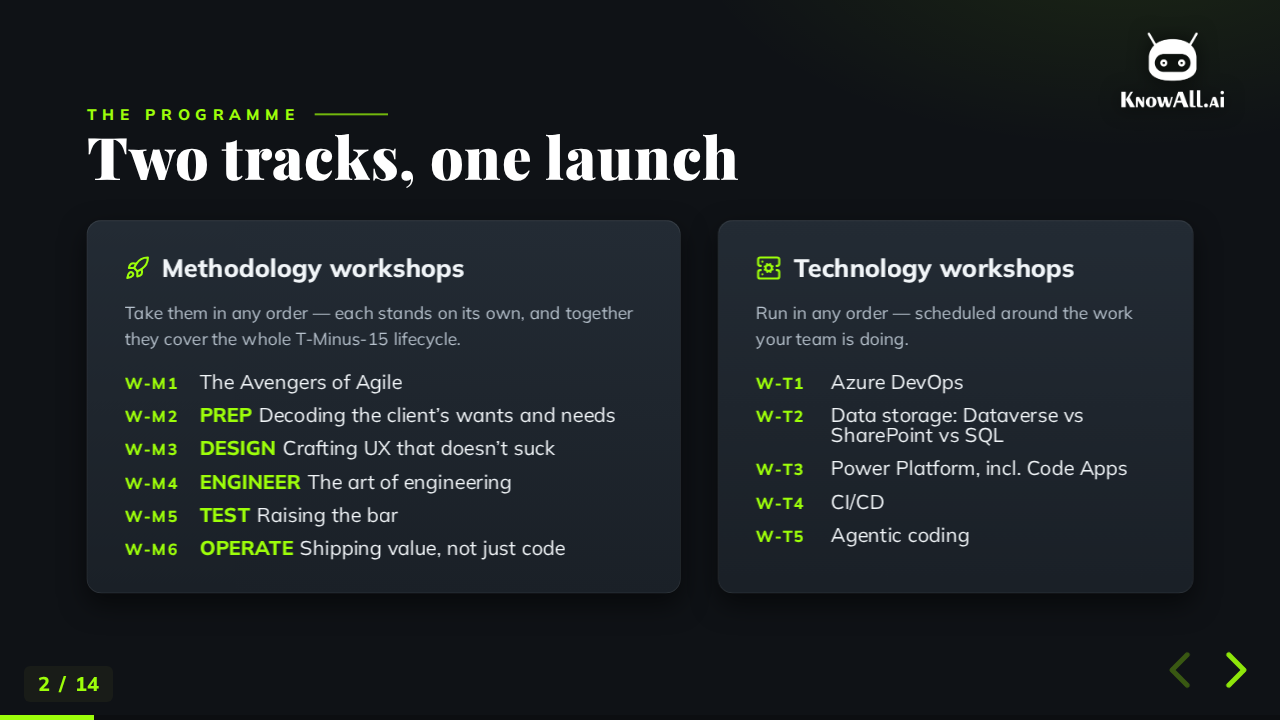
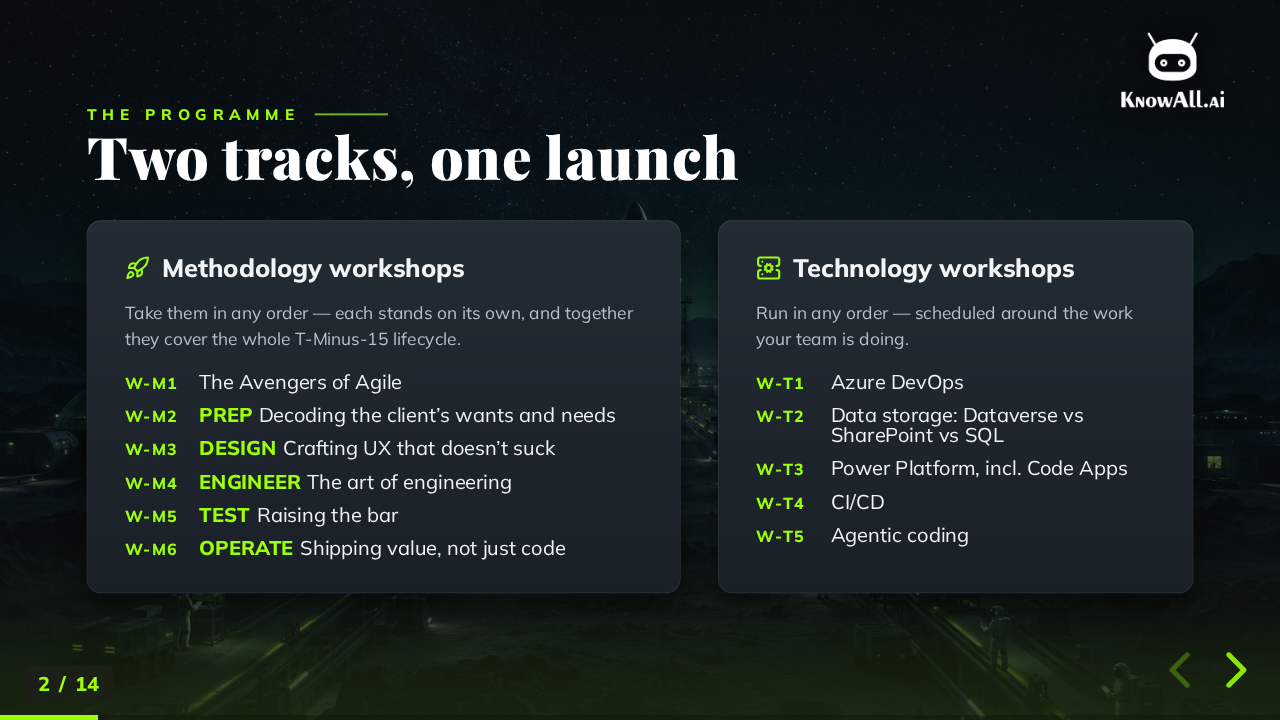
feat(presentations): scene background on the "Two tracks, one launch" slide
Slide 2 uses the house full-bleed scene treatment (section.scene with the
shared dark scrim and lime foot glow) over new art: two lit assembly tracks
on a lunar spaceport converging on one launch pad.

diff --git a/presentations-src/tminus15-workshops.html b/presentations-src/tminus15-workshops.html
@@ -286,7 +286,12 @@
         </section>
 
         <!-- Slide 2: Two tracks -->
-        <section role="region" aria-label="Slide 2 of 14: Two tracks, one launch">
+        <section
+          class="scene"
+          style="--scene: url('images/tminus15-workshops/scene-two-tracks.jpg')"
+          role="region"
+          aria-label="Slide 2 of 14: Two tracks, one launch"
+        >
           <img class="logo-light" src="/images/logo.png" alt="KnowAll.ai" />
           <div class="dark-inner" style="gap: 52px">
             <div>

diff --git a/public/presentations/tminus15-workshops.html b/public/presentations/tminus15-workshops.html
@@ -310,7 +310,12 @@
         </section>
 
         <!-- Slide 2: Two tracks -->
-        <section role="region" aria-label="Slide 2 of 14: Two tracks, one launch">
+        <section
+          class="scene"
+          style="--scene: url('images/tminus15-workshops/scene-two-tracks.jpg')"
+          role="region"
+          aria-label="Slide 2 of 14: Two tracks, one launch"
+        >
           <img class="logo-light" src="/images/logo.png" alt="KnowAll.ai" />
           <div class="dark-inner" style="gap: 52px">
             <div>
